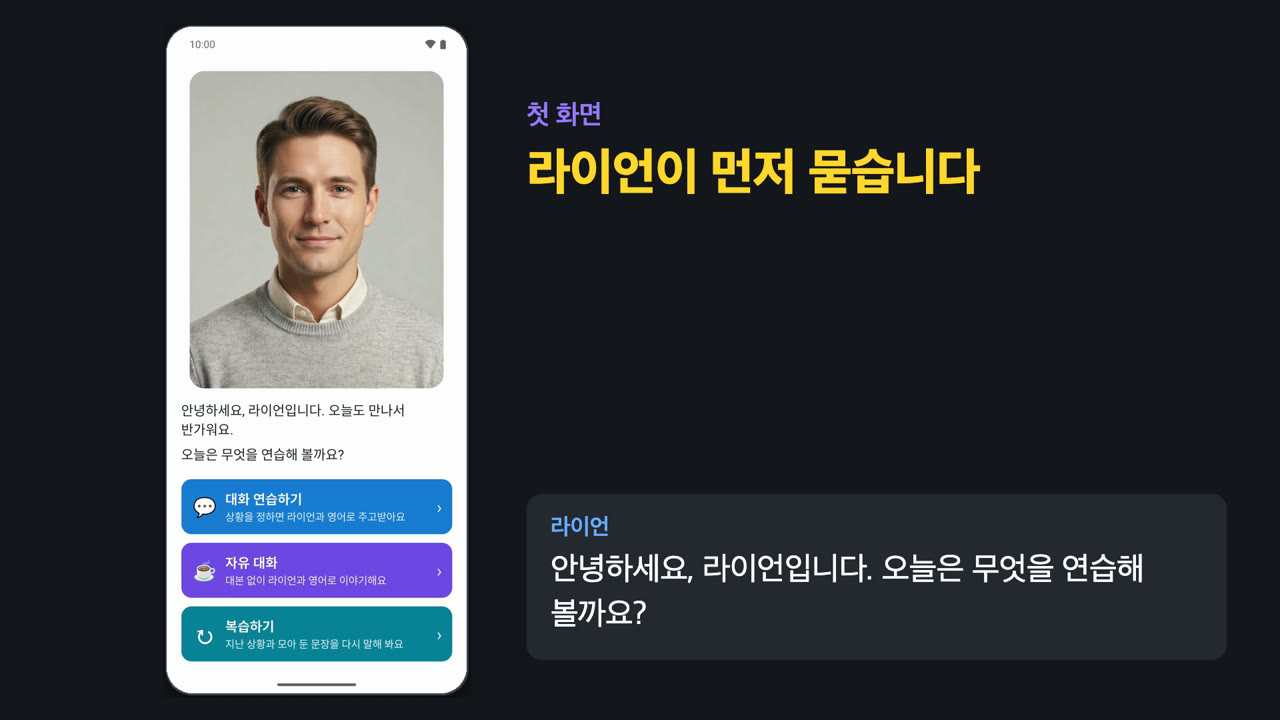
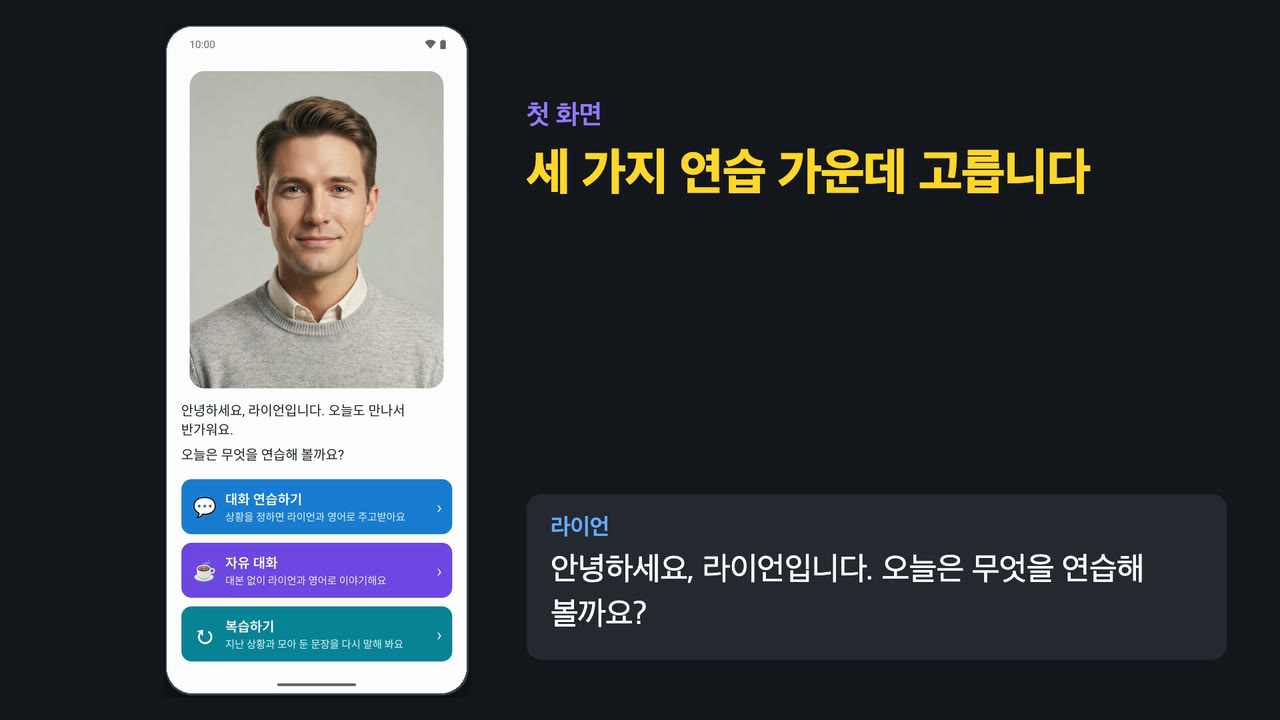
fix(app): show the practice panels by mode, not as numbered steps
The numbered order read like Ryan always asks first. The app offers three
kinds of practice and who speaks first depends on the situation, so the
panels are now told apart by the mode name and carry no numbers.
- rename the section to the practice method and reorder the four panels
- reword the four captions from the app code facts
- re-shot flow-1, flow-3 and flow-4 to match the new order

Changed region(s): [[0.4062, 0.1833, 0.875, 0.275]]

diff --git a/src/app/ai/jake-english/page.tsx b/src/app/ai/jake-english/page.tsx
@@ -8,9 +8,9 @@ import { getHome, getJakeEnglish } from "@/lib/content";
 import { FLOW_IMAGES, SLIDE_IMAGES, STORY_IMAGES, VIDEO_THUMB } from "@/lib/jake-english-images";
 import { pageMetadata } from "@/lib/site-meta";
 
-// Jake English 소개 (docs/02-ia.md /ai/jake-english). 돌아가기 링크 → 머리 → 영상 → 이야기 4컷 → 연습 흐름 → 본문 다섯 장 → 끝 링크 순서다.
+// Jake English 소개 (docs/02-ia.md /ai/jake-english). 돌아가기 링크 → 머리 → 영상 → 이야기 4컷 → 연습하는 방법 → 본문 다섯 장 → 끝 링크 순서다.
 // 글은 사이트 전용 글(content/site/jake-english.md)이다. 그림은 공개한 소개 영상에서 가져왔고, 이야기 4컷만 Gemini 앱으로 그렸다.
-// 그림의 대체 텍스트는 모두 비운다. 영상 썸네일은 링크 글이, 이야기 4컷과 연습 흐름은 설명이, 슬라이드는 바로 아래 문단이 같은 내용을 말하기 때문이다(/ai/case와 같은 규칙).
+// 그림의 대체 텍스트는 모두 비운다. 영상 썸네일은 링크 글이, 이야기 4컷과 연습하는 방법은 설명이, 슬라이드는 바로 아래 문단이 같은 내용을 말하기 때문이다(/ai/case와 같은 규칙).
 // 목차가 없는 서브페이지라 /ai/case처럼 맨 위로 버튼과 다음 페이지 버튼은 두지 않는다.
 const je = getJakeEnglish();
 const { ai } = getHome().sections;
@@ -61,14 +61,14 @@ export default function JakeEnglishPage() {
         <h2 id="story-title" className="mb-5 text-2xl font-extrabold tracking-[-0.02em] lg:mb-6 lg:text-[2rem]">
           이야기 4컷
         </h2>
-        <Panels images={STORY_IMAGES} captions={je.story} aspect="aspect-square" />
+        <Panels images={STORY_IMAGES} captions={je.story} aspect="aspect-square" numbered />
       </section>
 
       <section aria-labelledby="flow-title" className="mt-14 border-t border-line pt-14 lg:mt-24 lg:pt-24">
         <h2 id="flow-title" className="mb-5 text-2xl font-extrabold tracking-[-0.02em] lg:mb-6 lg:text-[2rem]">
-          연습 흐름
+          연습하는 방법
         </h2>
-        <Panels images={FLOW_IMAGES} captions={je.panels} aspect="aspect-video" />
+        <Panels images={FLOW_IMAGES} captions={je.panels} aspect="aspect-video" numbered={false} />
       </section>
 
       <div className="mt-14 border-t border-line pt-14 lg:mt-24 lg:pt-24">
@@ -109,15 +109,17 @@ export default function JakeEnglishPage() {
   );
 }
 
-// 번호와 설명이 붙은 그림 칸 2열 목록. 이야기 4컷(정사각)과 연습 흐름(16:9)이 같이 쓴다. 두 절 모두 영상 아래라 그림은 기본(lazy)으로 불러온다.
+// 설명이 붙은 그림 칸 2열 목록. 이야기 4컷(정사각, 번호 있음)과 연습하는 방법(16:9, 번호 없음)이 같이 쓴다. 연습하는 방법은 칸마다 연습 종류가 달라 번호를 붙이지 않는다. 두 절 모두 영상 아래라 그림은 기본(lazy)으로 불러온다.
 function Panels({
   images,
   captions,
   aspect,
+  numbered,
 }: {
   images: StaticImageData[];
   captions: { caption: string }[];
   aspect: "aspect-square" | "aspect-video";
+  numbered: boolean;
 }) {
   return (
     <ol className="grid gap-7 lg:max-w-[52rem] lg:grid-cols-2 lg:gap-10">
@@ -130,15 +132,19 @@ function Panels({
               sizes="(min-width: 64rem) 26rem, 100vw"
               className={`${aspect} w-full rounded-[0.625rem] border border-line`}
             />
-            <figcaption className="grid grid-cols-[1.5rem_minmax(0,1fr)] gap-2.5 text-sm leading-[1.65] lg:text-[0.9375rem]">
-              <span
-                aria-hidden="true"
-                className="mt-[0.0625rem] flex size-6 items-center justify-center rounded-full bg-accent text-xs font-bold text-on-accent"
-              >
-                {i + 1}
-              </span>
-              <span>{panel.caption}</span>
-            </figcaption>
+            {numbered ? (
+              <figcaption className="grid grid-cols-[1.5rem_minmax(0,1fr)] gap-2.5 text-sm leading-[1.65] lg:text-[0.9375rem]">
+                <span
+                  aria-hidden="true"
+                  className="mt-[0.0625rem] flex size-6 items-center justify-center rounded-full bg-accent text-xs font-bold text-on-accent"
+                >
+                  {i + 1}
+                </span>
+                <span>{panel.caption}</span>
+              </figcaption>
+            ) : (
+              <figcaption className="text-sm leading-[1.65] lg:text-[0.9375rem]">{panel.caption}</figcaption>
+            )}
           </figure>
         </li>
       ))}

diff --git a/src/lib/jake-english-images.ts b/src/lib/jake-english-images.ts
@@ -1,5 +1,5 @@
 // Jake English 그림 (/ai 맨 위 띠, /ai/jake-english). 이야기 4컷을 뺀 그림은 공개한 소개 영상에서 가져왔다.
-// 썸네일은 영상 썸네일 그대로, 연습 흐름 4컷은 시연 영상의 폰 화면에 단계와 제목과 말풍선을 HTML로 다시 그려 찍은 것,
+// 썸네일은 영상 썸네일 그대로, 연습하는 방법 4컷은 시연 영상의 폰 화면에 단계와 제목과 말풍선을 HTML로 다시 그려 찍은 것,
 // 이야기 4컷은 Gemini 앱으로 그린 그림이고 띠에서도 작게 쓴다. 슬라이드는 영상 슬라이드에서 제목 줄을 잘라 낸 것이다.
 // 만든 방법과 크기는 docs/guide/CONTENT_AI_사례_20261020.md에 있다.
 import type { StaticImageData } from "next/image";
@@ -20,7 +20,7 @@ import video from "@/assets/ai/jake-english/video.jpg";
 /** 소개 영상의 썸네일 (1920×1080) */
 export const VIDEO_THUMB: StaticImageData = video;
 
-/** 연습 흐름 4컷, 칸 순서 (1280×720). content/site/jake-english.md의 panels와 순서가 같다 */
+/** 연습하는 방법 4컷, 칸 순서는 첫 화면, 상황 정하기, 본보기를 듣고 말하기, 자유 대화 (1280×720). content/site/jake-english.md의 panels와 순서가 같다 */
 export const FLOW_IMAGES: StaticImageData[] = [flow1, flow2, flow3, flow4];
 
 /** 이야기 4컷, 칸 순서 (1200×1200). 페이지 첫 절과 /ai 맨 위 띠가 같이 쓴다. content/site/jake-english.md의 story와 순서가 같다 */

diff --git a/e2e/ai-jake-english.spec.ts b/e2e/ai-jake-english.spec.ts
@@ -42,7 +42,7 @@ test("영상 썸네일과 아래 한 줄이 유튜브로 가는 링크 하나다
   await expect(link.locator("img")).toHaveCount(1);
 });
 
-test("이야기 4컷은 네 칸이고, 칸마다 번호와 설명이 있고, 연습 흐름보다 앞이다", async ({ page }) => {
+test("이야기 4컷은 네 칸이고, 칸마다 번호와 설명이 있고, 연습하는 방법보다 앞이다", async ({ page }) => {
   await page.goto(PATH);
   const story = page.getByRole("region", { name: "이야기 4컷" });
   const items = story.getByRole("listitem");
@@ -60,12 +60,13 @@ test("이야기 4컷은 네 칸이고, 칸마다 번호와 설명이 있고, 연
   expect(order).toBe(true);
 });
 
-test("연습 흐름은 네 칸이고, 칸마다 번호와 설명이 있다", async ({ page }) => {
+test("연습하는 방법은 네 칸이고, 칸마다 설명만 있고 번호는 없다", async ({ page }) => {
   await page.goto(PATH);
-  const items = page.getByRole("region", { name: "연습 흐름" }).getByRole("listitem");
+  const items = page.getByRole("region", { name: "연습하는 방법" }).getByRole("listitem");
   await expect(items).toHaveCount(4);
   for (const [i, panel] of je.panels.entries()) {
-    await expect(items.nth(i).locator("figcaption")).toHaveText(`${i + 1}${panel.caption}`);
+    await expect(items.nth(i).locator("figcaption")).toHaveText(panel.caption);
+    await expect(items.nth(i).locator("figcaption span[aria-hidden]")).toHaveCount(0);
   }
 });
 

diff --git a/content/site/jake-english.md b/content/site/jake-english.md
@@ -11,10 +11,10 @@ story:
   - caption: 말이 막히면 소희가 옆에서 도와줍니다.
   - caption: 같은 상황이 다시 오면 이번에는 막히지 않고 답합니다.
 panels:
-  - caption: 앱을 열면 라이언이 인사하고, 오늘 무엇을 연습할지 묻습니다.
-  - caption: 해 보고 싶은 상황을 직접 말하거나 쓰면 그 상황의 대본이 만들어집니다. 목록에서 고르거나 추천받을 수도 있습니다.
-  - caption: 자유 대화에서 말이 막히면 소희가 무엇을 묻는지 알려 주고, 답할 힌트를 줍니다.
-  - caption: 라이언의 본보기를 듣고 따라 말합니다(섀도잉). 0.6배, 0.8배로 느리게 다시 듣고, 세게 읽을 곳과 한글 발음도 봅니다. 따라 말하면 다르게 들린 낱말을 짚어 줍니다.
+  - caption: 라이언이 인사하고 무엇을 연습할지 묻습니다. 대본으로 주고받는 대화 연습하기, 대본 없는 자유 대화, 지난 것을 다시 하는 복습하기 가운데 고릅니다.
+  - caption: 해 보고 싶은 상황을 직접 말하거나 쓰면 그 상황의 대본이 만들어집니다. 목록에서 고르거나 추천받을 수도 있습니다. 누가 먼저 말할지는 상황에 따라 정해집니다.
+  - caption: 내 차례에는 라이언의 본보기를 듣고 내 대사를 말합니다(섀도잉). 0.6배, 0.8배로 느리게 다시 듣고, 세게 읽을 곳과 한글 발음도 봅니다. 말하면 다르게 들린 낱말을 짚어 줍니다.
+  - caption: 대본 없이 라이언과 영어로 이야기합니다. 말이 막히면 소희가 라이언이 무엇을 묻는지 알려 주고, 답할 힌트를 줍니다. 끝나면 고칠 곳을 하나씩 돌아봅니다.
 chapters:
   - title: 왜 만들었나
     body: 외국인이 길을 물었을 때 말은 알아들었는데 첫마디가 나오지 않았습니다. 유튜브로 섀도잉도 해 봤지만 따라 하기만 해서 흥미가 이어지지 않았고, 제대로 말하는지도 알 수 없었습니다. 그래서 어떤 상황이든 직접 정해 대화를 연습하고, 말할 때마다 바로 짚어 주는 앱을 만들었습니다.
@@ -39,5 +39,6 @@ chapters:
   그 가운데 pr-review 스킬의 리뷰 코멘트가 달린 PR이 58개다. 저장소가 더 자라도 날짜 범위의 값이라 바꾸지 않는다.
 - 영상 아래 한 줄 끝의 화살표는 화면에서 붙인다(읽지 않는 장식).
 - 이야기 4컷은 Gemini 앱으로 그린 그림이다. 이야기 4컷 절 소제목 "이야기 4컷"과 story의 1, 2번 문구(설계의 W11, W12)는 추천안으로 정했고 사용자가 확인했다(2026-11-11). story의 3, 4번과 panels의 3번은 2026-11-11에 사용자가 직접 고쳐 썼다.
-- 그림은 src/lib/jake-english-images.ts에 있다. 이야기 4컷 칸, 연습 흐름 칸, 장의 순서는 story, panels, chapters의 순서와 같다.
+- 연습하는 방법 절의 소제목 연습하는 방법과 panels의 네 칸 문구는 앱 코드에서 확인한 사실로 정한 추천안이다(2026-11-11). 번호와 연습 흐름이라는 순서는 번호 순서가 라이언이 늘 먼저 묻는 흐름처럼 읽혀서 뺐다.
+- 그림은 src/lib/jake-english-images.ts에 있다. 이야기 4컷 칸, 연습하는 방법 칸, 장의 순서는 story, panels, chapters의 순서와 같다.
 -->
